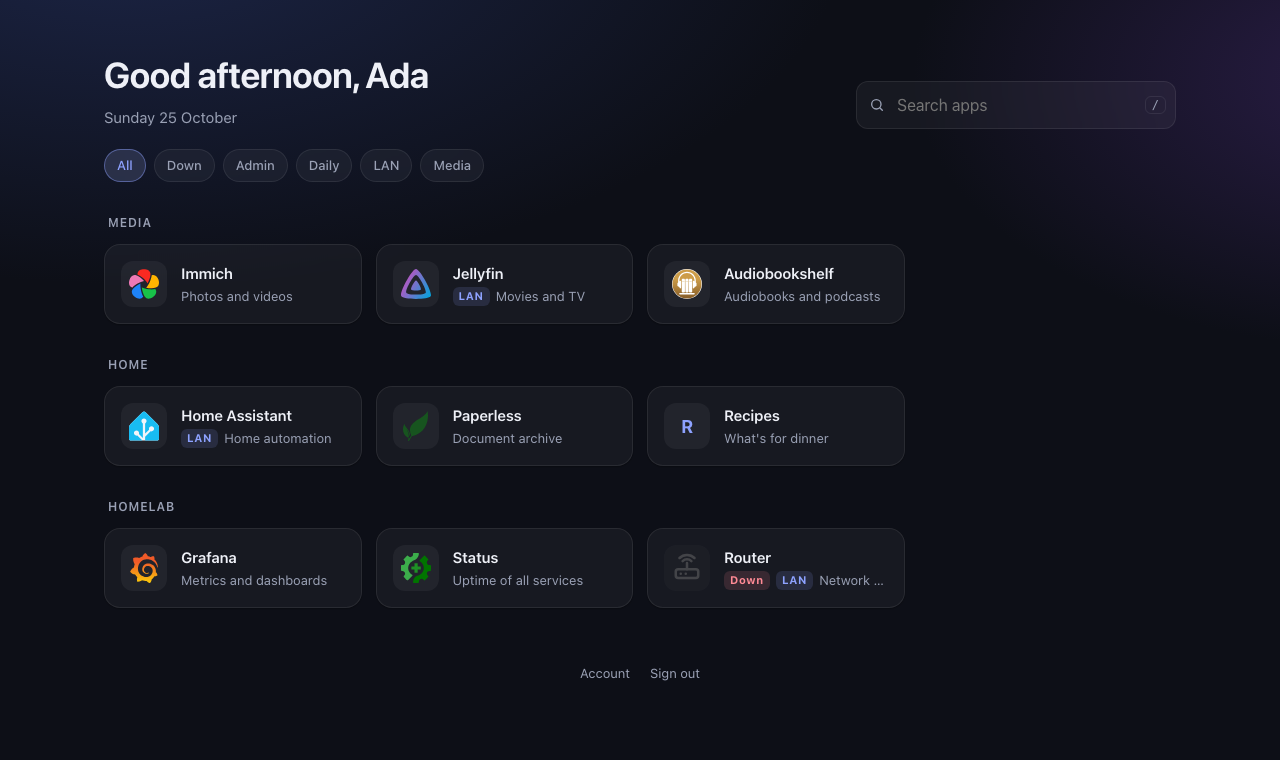
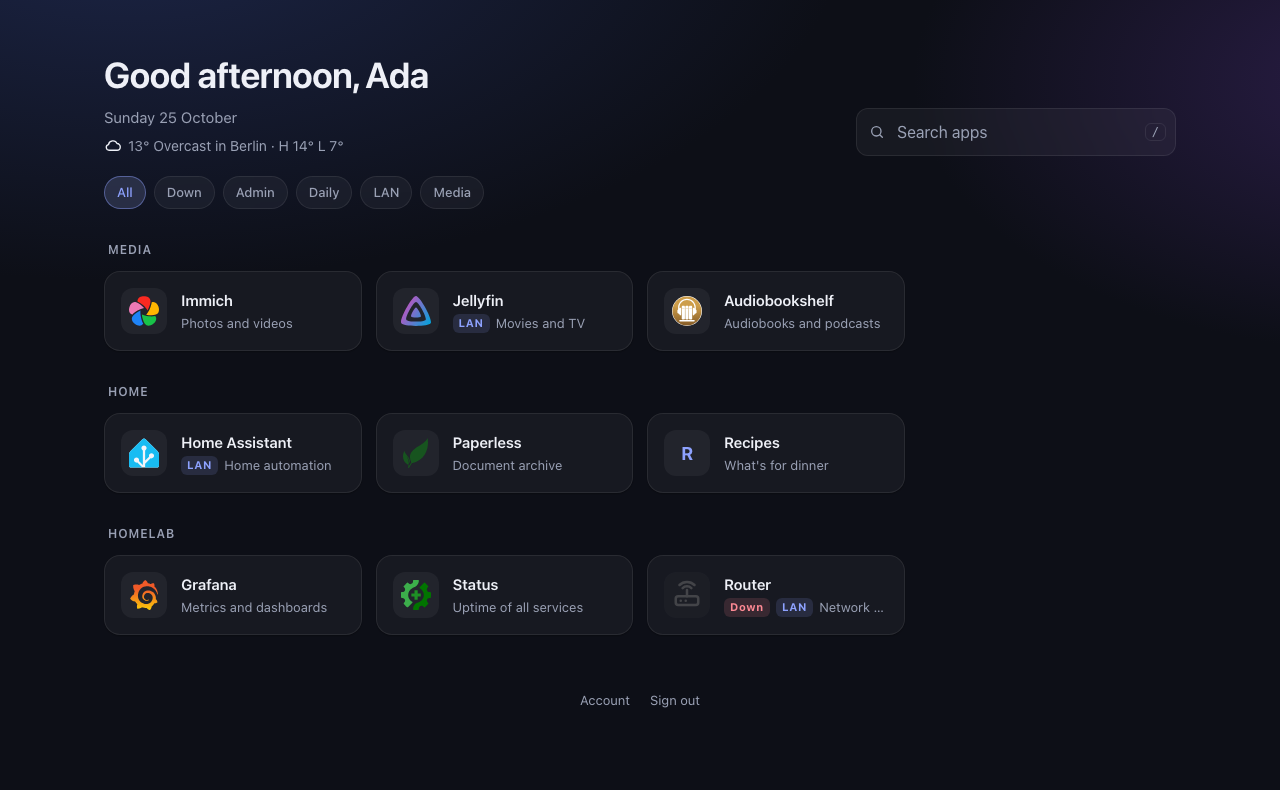
feat(site): modules with weather, background images, optional search
Weather takes a postcode, a city or coordinates; postcodes go to zippopotam.us because
Open-Meteo's geocoding misses most German ones.

diff --git a/site/index.html b/site/index.html
@@ -5,6 +5,16 @@
 {{- $groupFormat := env "DOORMAT_GROUP_FORMAT" | default "%s:member" -}}
 {{- $data := (splitFrontMatter (include "/apps.md")).Meta -}}
 {{- $title := $data.title | default "Start" -}}
+{{- /* Modules: each one is a {{ define "module-<name>" }} in /modules/<name>.html. */ -}}
+{{- import "/modules/weather.html" -}}
+{{- /* A URL or a path under /srv (e.g. backgrounds/sky.jpg). It ends up inside CSS url(), so
+       anything that could end that string is refused rather than escaped. */ -}}
+{{- $background := "" -}}
+{{- with $data.background -}}
+  {{- if not (regexMatch "[\"'()\\\\\\s<>]" .) -}}
+    {{- $background = ternary . (printf "/%s" .) (contains "://" .) -}}
+  {{- end -}}
+{{- end -}}
 {{- $userGroups := list -}}
 {{- range splitList (env "DOORMAT_GROUPS_SEPARATOR" | default ",") (.Req.Header.Get $groupsHeader) -}}
   {{- $g := trim . -}}
@@ -61,6 +71,8 @@
 <style>
 	:root {
 		--bg: #f4f5f8;
+		/* Over a background image: keeps text and tiles readable whatever the photo. */
+		--scrim: rgba(244, 245, 248, 0.6);
 		--bg-glow: radial-gradient(1200px 600px at 10% -10%, #dfe6ff 0%, transparent 60%),
 			radial-gradient(900px 500px at 110% 10%, #e9ddff 0%, transparent 55%);
 		--card: rgba(255, 255, 255, 0.78);
@@ -78,6 +90,7 @@
 	@media (prefers-color-scheme: dark) {
 		:root {
 			--bg: #0d0f17;
+			--scrim: rgba(13, 15, 23, 0.62);
 			--bg-glow: radial-gradient(1200px 600px at 10% -10%, #1c2547 0%, transparent 60%),
 				radial-gradient(900px 500px at 110% 10%, #2a1d47 0%, transparent 55%);
 			--card: rgba(255, 255, 255, 0.045);
@@ -102,6 +115,10 @@
 		font: 15px/1.5 ui-sans-serif, system-ui, -apple-system, "Segoe UI", Roboto, "Helvetica Neue", sans-serif;
 		-webkit-font-smoothing: antialiased;
 	}
+	body.has-background {
+		background: linear-gradient(var(--scrim), var(--scrim)), var(--background) center / cover no-repeat, var(--bg);
+		background-attachment: fixed;
+	}
 	.wrap {
 		max-width: 1120px;
 		margin: 0 auto;
@@ -117,6 +134,10 @@
 	}
 	.greeting { font-size: clamp(26px, 4vw, 36px); font-weight: 650; letter-spacing: -0.02em; margin: 0; }
 	.date { color: var(--muted); margin: 4px 0 0; }
+	.modules { display: flex; flex-wrap: wrap; gap: 6px 18px; margin-top: 6px; color: var(--muted); font-size: 14px; }
+	.module { display: inline-flex; align-items: center; gap: 6px; }
+	.weather-icon { display: inline-flex; color: var(--text); }
+	.weather-icon[data-icon="sun"] { color: #d97706; }
 	.search {
 		position: relative;
 		flex: 0 1 320px;
@@ -136,6 +157,7 @@
 		backdrop-filter: blur(12px);
 		transition: border-color 0.15s, box-shadow 0.15s;
 	}
+	.search input::placeholder { color: var(--muted); opacity: 1; }
 	.search input:focus { border-color: var(--accent); box-shadow: 0 0 0 4px color-mix(in srgb, var(--accent) 18%, transparent); }
 	/* Above the input: its backdrop-filter starts a stacking context that would paint over the icon. */
 	.search svg { position: absolute; left: 13px; top: 50%; transform: translateY(-50%); color: var(--muted); z-index: 1; pointer-events: none; }
@@ -229,18 +251,29 @@
 	@media (prefers-reduced-motion: reduce) { .tile { transition: none; } }
 </style>
 </head>
-<body>
+<body{{ if $background }} class="has-background" style="--background: url('{{ $background | html }}')"{{ end }}>
 <div class="wrap">
 	<header>
 		<div>
 			<h1 class="greeting"><span id="hello">Hello</span>{{ if $name }}, {{ $name | html }}{{ end }}</h1>
 			<p class="date" id="date"></p>
+			{{- with $data.modules }}
+			<div class="modules">
+				{{- range . }}
+				{{- if eq (toString .module) "weather" }}{{ template "module-weather" . }}
+				{{- else }}<!-- doormat: unknown module {{ .module | default "" | html }} -->
+				{{- end }}
+				{{- end }}
+			</div>
+			{{- end }}
 		</div>
+		{{- if ne (toString $data.search) "false" }}
 		<label class="search">
 			<svg width="16" height="16" viewBox="0 0 24 24" fill="none" stroke="currentColor" stroke-width="2" stroke-linecap="round" aria-hidden="true"><circle cx="11" cy="11" r="7"/><path d="m20 20-3.5-3.5"/></svg>
 			<input id="q" type="search" placeholder="Search apps" autocomplete="off" aria-label="Search apps">
 			<kbd>/</kbd>
 		</label>
+		{{- end }}
 	</header>
 	{{- if or $labels $anyHealth }}
 	<nav class="filters" aria-label="Filter by label">
@@ -327,7 +360,7 @@
 		} catch (e) {}
 
 		const apply = () => {
-			const term = q.value.trim().toLowerCase();
+			const term = q ? q.value.trim().toLowerCase() : "";
 			tiles.forEach(t => {
 				const labels = t.dataset.labels.split(" ").filter(Boolean);
 				// Search looks at every app; otherwise a tile needs one included label (if any are
@@ -357,15 +390,18 @@
 			try { localStorage.setItem("labelFilter", JSON.stringify({ include: [...include], exclude: [...exclude] })); } catch (e) {}
 			apply();
 		}));
-		q.addEventListener("input", apply);
-		q.addEventListener("keydown", e => {
-			if (e.key === "Enter") { const first = tiles.find(t => !t.hidden); if (first) location.href = first.href; }
-			if (e.key === "Escape") { q.value = ""; apply(); q.blur(); }
-		});
+		// search: false in apps.md leaves the box out entirely.
+		if (q) {
+			q.addEventListener("input", apply);
+			q.addEventListener("keydown", e => {
+				if (e.key === "Enter") { const first = tiles.find(t => !t.hidden); if (first) location.href = first.href; }
+				if (e.key === "Escape") { q.value = ""; apply(); q.blur(); }
+			});
+			addEventListener("keydown", e => {
+				if (e.key === "/" && document.activeElement !== q) { e.preventDefault(); q.focus(); }
+			});
+		}
 		apply();
-		addEventListener("keydown", e => {
-			if (e.key === "/" && document.activeElement !== q) { e.preventDefault(); q.focus(); }
-		});
 
 		// Health: re-render the page in the background and copy over only each tile's status, so
 		// search and filters stay as they are. The same user gets the same tiles in the same order.

diff --git a/site/modules/weather.html b/site/modules/weather.html
@@ -1,0 +1,96 @@
+{{- /* Weather from Open-Meteo (no API key). Location, one of: postcode + country (zippopotam.us),
+       city with optional country (Open-Meteo geocoding), or latitude + longitude. Also: name (label,
+       default: the place found), unit: celsius (default) or fahrenheit. The browser fetches it, so a
+       failed lookup or fetch only hides the module. */ -}}
+{{- define "module-weather" }}
+<div class="module weather" data-postcode="{{ .postcode | default "" | html }}" data-country="{{ .country | default "" | html }}" data-city="{{ .city | default "" | html }}" data-latitude="{{ .latitude | default "" | html }}" data-longitude="{{ .longitude | default "" | html }}" data-unit="{{ .unit | default "celsius" | html }}" data-name="{{ .name | default "" | html }}" hidden>
+	<span class="weather-icon" aria-hidden="true"></span>
+	<span class="weather-text"></span>
+</div>
+<script>
+	(() => {
+		const icons = {
+			sun: '<circle cx="12" cy="12" r="4"/><path d="M12 2v2M12 20v2M4.9 4.9l1.4 1.4M17.7 17.7l1.4 1.4M2 12h2M20 12h2M4.9 19.1l1.4-1.4M17.7 6.3l1.4-1.4"/>',
+			moon: '<path d="M20 14.5A8 8 0 1 1 9.5 4a6.5 6.5 0 0 0 10.5 10.5z"/>',
+			partly: '<path d="M8 3v1.5M3.5 8H2M4.5 4.5l1 1M12.5 4.5l-1 1"/><path d="M5.5 10.5a4 4 0 0 1 6.9-3.2"/><path d="M8 20h9a4 4 0 0 0 0-8 5.5 5.5 0 0 0-10.4 1.5A3.3 3.3 0 0 0 8 20z"/>',
+			cloud: '<path d="M7 19h10a4.5 4.5 0 0 0 .4-9A6 6 0 0 0 6 11.5 3.8 3.8 0 0 0 7 19z"/>',
+			rain: '<path d="M7 15h10a4.5 4.5 0 0 0 .4-9A6 6 0 0 0 6 7.5 3.8 3.8 0 0 0 7 15z"/><path d="M8 18l-1 3M12 18l-1 3M16 18l-1 3"/>',
+			snow: '<path d="M7 15h10a4.5 4.5 0 0 0 .4-9A6 6 0 0 0 6 7.5 3.8 3.8 0 0 0 7 15z"/><path d="M8 19h.01M12 21h.01M16 19h.01M10 22h.01M14 18h.01"/>',
+			storm: '<path d="M7 15h10a4.5 4.5 0 0 0 .4-9A6 6 0 0 0 6 7.5 3.8 3.8 0 0 0 7 15z"/><path d="M12.5 15l-2 3.5h3l-2 3.5"/>',
+			fog: '<path d="M4 9h16M3 13h18M6 17h12"/>',
+		};
+		// WMO weather codes, as Open-Meteo reports them.
+		const describe = (code, day) =>
+			code === 0 ? [day ? "sun" : "moon", "Clear"]
+			: code <= 2 ? [day ? "partly" : "cloud", "Partly cloudy"]
+			: code === 3 ? ["cloud", "Overcast"]
+			: code <= 48 ? ["fog", "Fog"]
+			: code <= 57 ? ["rain", "Drizzle"]
+			: code <= 67 ? ["rain", "Rain"]
+			: code <= 77 ? ["snow", "Snow"]
+			: code <= 82 ? ["rain", "Showers"]
+			: code <= 86 ? ["snow", "Snow showers"]
+			: ["storm", "Thunderstorm"];
+
+		const cached = (key, maxAge) => {
+			try {
+				const c = JSON.parse(localStorage.getItem(key) || "null");
+				if (c && Date.now() - c.at < maxAge) return c.data;
+			} catch (e) {}
+		};
+		const store = (key, data) => { try { localStorage.setItem(key, JSON.stringify({ at: Date.now(), data })); } catch (e) {} };
+		const json = async url => { const res = await fetch(url); if (!res.ok) throw new Error(res.status); return res.json(); };
+
+		// A place does not move, so a lookup is kept for good.
+		const locate = async ({ postcode, country, city, latitude, longitude }) => {
+			if (latitude && longitude) return { latitude, longitude, place: "" };
+			const key = `doormat-place:${postcode}|${city}|${country}`;
+			const hit = cached(key, Infinity);
+			if (hit) return hit;
+			let found;
+			if (postcode && country) {
+				const p = (await json(`https://api.zippopotam.us/${encodeURIComponent(country.toLowerCase())}/${encodeURIComponent(postcode)}`)).places[0];
+				found = { latitude: p.latitude, longitude: p.longitude, place: p["place name"] };
+			} else if (city) {
+				const params = { name: city, count: "1" };
+				if (country) params.countryCode = country.toUpperCase();
+				const r = (await json("https://geocoding-api.open-meteo.com/v1/search?" + new URLSearchParams(params))).results[0];
+				found = { latitude: r.latitude, longitude: r.longitude, place: r.name };
+			} else return null;
+			store(key, found);
+			return found;
+		};
+
+		document.querySelectorAll(".weather:not([data-init])").forEach(async el => {
+			el.dataset.init = "";
+			const { unit, name } = el.dataset;
+			let where;
+			try { where = await locate(el.dataset); } catch (e) {}
+			if (!where) return;
+			const { latitude, longitude } = where;
+			const label = name || where.place;
+			const key = `doormat-weather:${latitude},${longitude},${unit}`;
+			let data = cached(key, 15 * 60 * 1000);
+			if (!data) {
+				try {
+					const url = "https://api.open-meteo.com/v1/forecast?" + new URLSearchParams({
+						latitude, longitude, timezone: "auto", forecast_days: "1", temperature_unit: unit,
+						current: "temperature_2m,weather_code,is_day",
+						daily: "temperature_2m_max,temperature_2m_min",
+					});
+					data = await json(url);
+					store(key, data);
+				} catch (e) { return; }
+			}
+			const [icon, text] = describe(data.current.weather_code, data.current.is_day);
+			const t = v => Math.round(v) + "°";
+			el.querySelector(".weather-icon").innerHTML =
+				`<svg viewBox="0 0 24 24" width="18" height="18" fill="none" stroke="currentColor" stroke-width="1.8" stroke-linecap="round" stroke-linejoin="round">${icons[icon]}</svg>`;
+			el.querySelector(".weather-icon").dataset.icon = icon;
+			el.querySelector(".weather-text").textContent =
+				`${t(data.current.temperature_2m)} ${text}${label ? " in " + label : ""} · H ${t(data.daily.temperature_2m_max[0])} L ${t(data.daily.temperature_2m_min[0])}`;
+			el.hidden = false;
+		});
+	})();
+</script>
+{{- end }}

diff --git a/examples/apps.md b/examples/apps.md
@@ -3,6 +3,13 @@
 #
 # title:    page and home-screen title (default: Start).
 # links:    footer links, e.g. your auth portal's account and logout pages.
+# background: optional page background, a URL or a path under /srv (backgrounds/sky.jpg).
+# modules:  optional widgets under the date, in this order. Each names its module and takes
+#           that module's parameters:
+#           weather: where, as postcode + country, city (+ country), or latitude + longitude;
+#           name (label, default: the place found); unit (celsius or fahrenheit). Fetched by the
+#           browser from open-meteo.com; postcodes are looked up at zippopotam.us.
+# search:   false leaves out the search box.
 # labels:   filter chips. badge: true also shows the label on the tile. requires: a group the
 #           user needs on top of the app's own group before the tile shows (DOORMAT_AUTH=headers).
 # apps:
@@ -13,6 +20,11 @@
 #   health: marks the tile when the app is down. true checks url, a path checks that path on url's host, or a
 #           full URL (e.g. an internal address). Any response below HTTP 500 counts as up.
 title: Start
+
+modules:
+  - module: weather
+    postcode: "10115"
+    country: de
 
 links:
   - name: Account

diff --git a/README.md b/README.md
@@ -63,6 +63,24 @@ the same host, a full URL checks anything else, such as an internal address. Any
 HTTP 500 within 5 seconds counts as up, so login redirects and 401s do too. doormat runs the
 checks itself; the page only shows their last result. While any app is down, a Down chip filters for them.
 
+## Modules and background
+
+Widgets go under the date, in the order of `modules:` in `apps.md`. Each entry names its module
+and takes that module's parameters:
+
+```yaml
+modules:
+  - module: weather   # Open-Meteo, fetched by the browser; no API key
+    postcode: "10115" # or city: Hamburg, or latitude/longitude
+    country: de
+```
+
+A module is one file in [`site/modules/`](site/modules). Adding one takes that file, its
+`import` at the top of `site/index.html`, and a branch where `.modules` renders.
+
+`background: backgrounds/sky.jpg` (mount `/srv/backgrounds`) or a URL puts an image behind the
+page, dimmed per theme so the tiles stay readable. `search: false` leaves out the search box.
+
 ## Development
 
 `source bin/activate-hermit` for the toolchain, then `just dev` (live reload) or

diff --git a/test/health/apps.md b/test/health/apps.md
@@ -1,4 +1,9 @@
 ---
+background: backgrounds/sky.jpg
+search: false
+modules:
+  - module: nope
+  - latitude: 1
 categories:
   - name: Health
     apps:
